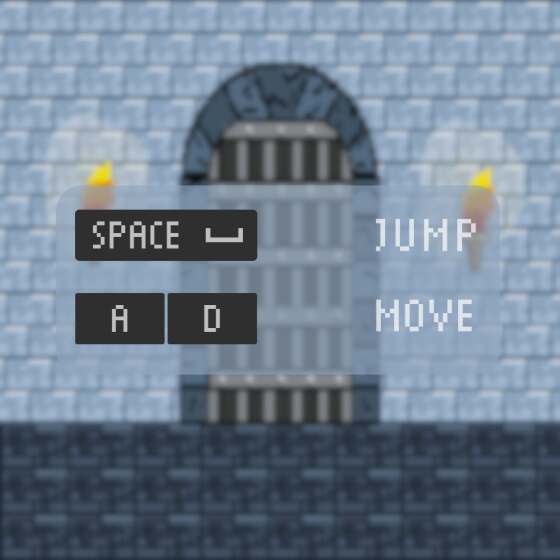
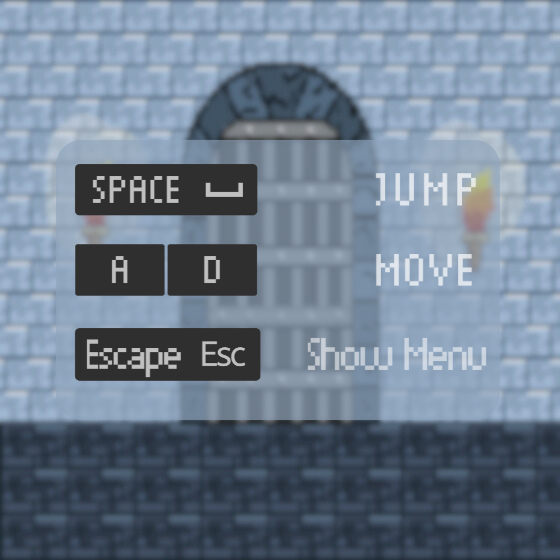
Final

Changed region(s): [[0.1214, 0.2429, 0.9107, 0.7589]]

diff --git a/Game.java b/Game.java
@@ -12,6 +12,8 @@ public class Game extends World {
   private boolean maploaded = false;
   private boolean Allobjectsdestroyed = false;
   private boolean retry = false;
+  private boolean isPaused = false;
+  private static Game currentGameInstance = null;
 
   private int[][] LVL_data = {
     {
@@ -93,7 +95,7 @@ public class Game extends World {
       1, 0, 0, 0, 0, 0, 0, 0, 0, 0, 0, 0, 0, 0, 0, 0, 0, 0, 0, 0, 0, 0, 0, 0, 0, 0, 0, 1,
     },
     {
-      1, 0, 4, 0, 0, 0, 0, 0, 0, 0, 0, 0, 0, 0, 0, 5, 0, 0, 0, 0, 0, 0, 0, 0, 0, 0, 0, 1,
+      1, 0, 0, 0, 0, 0, 0, 0, 0, 0, 0, 0, 0, 0, 0, 5, 0, 0, 0, 0, 0, 0, 0, 0, 0, 0, 0, 1,
     },
     {1, 1, 1, 1, 1, 1, 1, 1, 1, 1, 1, 1, 1, 1, 1, 1, 1, 1, 1, 1, 1, 1, 1, 1, 1, 1, 1, 1}
   };
@@ -104,8 +106,23 @@ public class Game extends World {
 
   public Game() {
     super(20 * 28, 20 * 28, 1);
+    currentGameInstance = this;
     Greenfoot.setSpeed(50);
     GenerateLevel();
+  }
+
+  public static Game getCurrentInstance() {
+    return currentGameInstance;
+  }
+
+  public void pauseGame() {
+    isPaused = true;
+    Greenfoot.setWorld(new PauseMenu());
+  }
+
+  public void resumeGame() {
+    isPaused = false;
+    Greenfoot.setWorld(this);
   }
 
   public void ChangeLevel(int level) {
@@ -452,7 +469,7 @@ public class Game extends World {
             1, 0, 0, 0, 0, 0, 0, 1, 1, 0, 0, 2, 2, 2, 2, 2, 2, 2, 2, 6, 6, 6, 6, 6, 6, 1, 0, 1,
           },
           {
-            1, 0, 0, 0, 0, 0, 0, 0, 1, 0, 0, 0, 0, 0, 0, 0, 0, 0, 1, 6, 6, 6, 6, 6, 6, 1, 0, 1,
+            1, 0, 0, 0, 0, 0, 0, 0, 1, 0, 0, 1, 1, 1, 1, 0, 0, 0, 1, 6, 6, 6, 6, 6, 6, 1, 0, 1,
           },
           {
             1, 5, 0, 0, 0, 0, 0, 0, 1, 0, 0, 0, 0, 6, 0, 0, 7, 0, 1, 6, 6, 6, 6, 6, 6, 0, 0, 1,
@@ -506,32 +523,43 @@ public class Game extends World {
   }
 
   public void act() {
-    
-    if (numberOfObjects() == Objects - Scroll && maploaded || retry) {
-      Player gPlayer = (Player) Player;
-      gPlayer.Freeze(true);
-      addObject(dummy, 0, 0);
-      Greenfoot.setSpeed(70);
+
+    if (Greenfoot.isKeyDown("escape")) {
+      pauseGame();
+      return;
     }
 
-    if (numberOfObjects() == 1) {
-      removeObject(dummy);
-      Allobjectsdestroyed = true;
-      Player gPlayer = (Player) Player;
-      gPlayer.Freeze(false);
-      Greenfoot.setSpeed(50);
-    }
+    if (!isPaused) {
+      if (numberOfObjects() == Objects - Scroll && maploaded || retry) {
+        Player gPlayer = (Player) Player;
+        gPlayer.Freeze(true);
+        addObject(dummy, 0, 0);
+        Greenfoot.setSpeed(70);
+      }
 
-    if (Allobjectsdestroyed) {
-      Allobjectsdestroyed = false;
+      if (numberOfObjects() == 1) {
+        removeObject(dummy);
+        Allobjectsdestroyed = true;
+        Player gPlayer = (Player) Player;
+        gPlayer.Freeze(false);
+        Greenfoot.setSpeed(50);
+      }
 
-      if (!retry) Level++;
+      if (Allobjectsdestroyed) {
+        Allobjectsdestroyed = false;
 
-      retry = false;
+        if (!retry) Level++;
 
-      ChangeLevel(Level);
+        retry = false;
+        
+        if (Level > 5) {
+            Greenfoot.setWorld(new GameCompleted());
+            return;
+        }
 
-      GenerateLevel();
+        ChangeLevel(Level);
+        GenerateLevel();
+      }
     }
   }
 

diff --git a/GameCompleted.java b/GameCompleted.java
@@ -7,18 +7,20 @@ public class GameCompleted extends World {
         prepare();
     }
     
-    private void prepare()
-    {
-        ReplayButton replayButton = new ReplayButton();
+    private void prepare() {
         HomeButton homeButton = new HomeButton();
         YouWin youWin = new YouWin();
-        
-        addObject(replayButton,446,291);
+        ReplayButton replayButton = new ReplayButton();
+        HelpButton helpButton = new HelpButton();
+
         addObject(homeButton,304,313);
         addObject(youWin,353,226);
-        
+        addObject(replayButton,446,291);
+        addObject(helpButton,293,404);
+
         homeButton.setLocation(65,30);
-        youWin.setLocation(275,250);
-        replayButton.setLocation(275 ,329);
+        youWin.setLocation(275, 250);
+        replayButton.setLocation(275, 340);
+        helpButton.setLocation(275, 410);
     }
 }

diff --git a/PauseMenu.java b/PauseMenu.java
@@ -9,18 +9,15 @@ public class PauseMenu extends World {
     
     private void prepare() {
         HomeButton homeButton = new HomeButton();
-        HelpButton helpButton = new HelpButton();
         ReplayButton replayButton = new ReplayButton();
         ResumeButton resumeButton = new ResumeButton();
         
         addObject(homeButton, 290, 290);
-        addObject(helpButton, 290, 290);
         addObject(replayButton, 290, 290);
         addObject(resumeButton, 290, 290);
         
         homeButton.setLocation(65, 30);
         resumeButton.setLocation(275,250);
         replayButton.setLocation(275,320);
-        helpButton.setLocation(275,390);
     }
 }

diff --git a/ResumeButton.java b/ResumeButton.java
@@ -17,7 +17,12 @@ public class ResumeButton extends Actor {
     }
     if (Greenfoot.mouseClicked(this)) {
       Greenfoot.delay(2);
-      Greenfoot.setWorld(new Game());
+      Game currentGame = Game.getCurrentInstance();
+      if (currentGame != null) {
+        currentGame.resumeGame();
+      } else {
+        Greenfoot.setWorld(new Game());
+      }
     }
   }
 }
